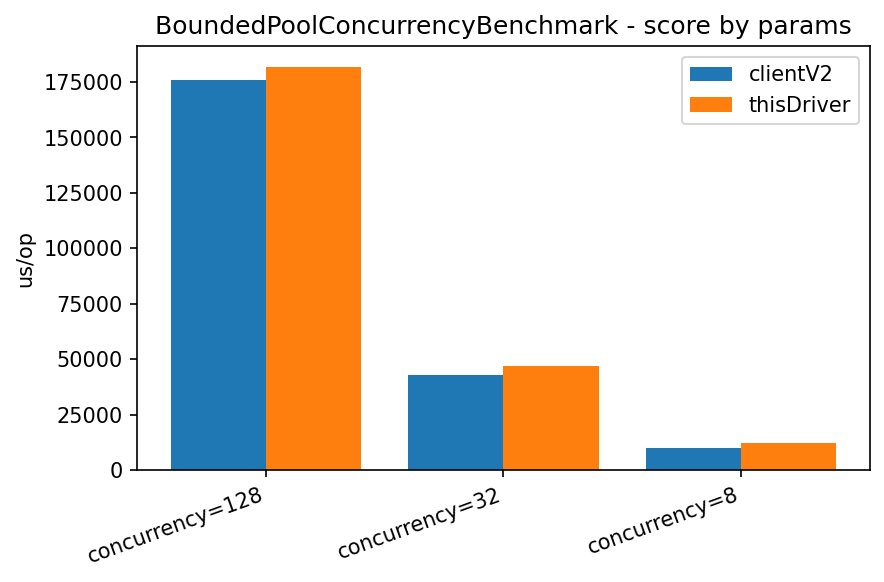
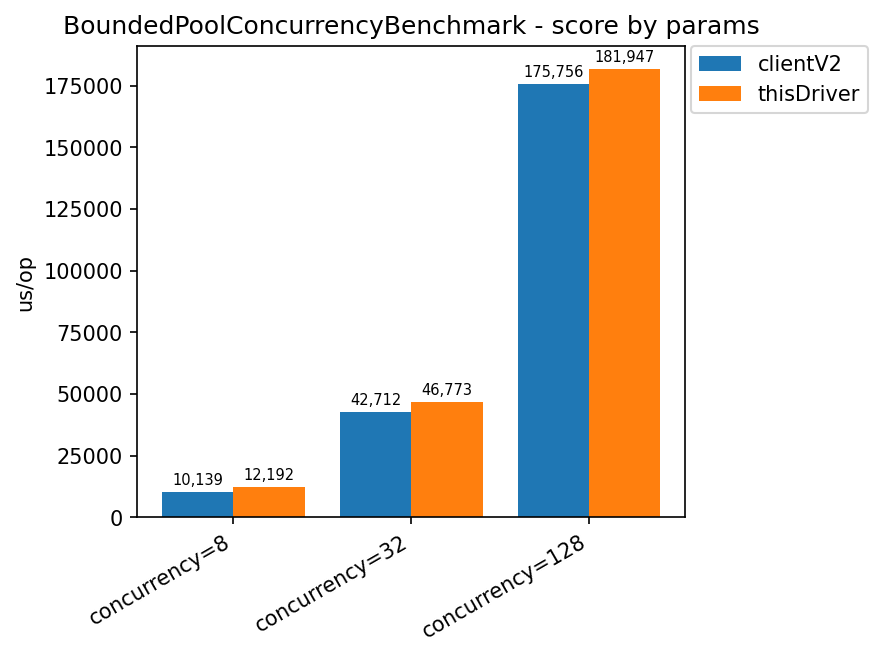
fix(benchmarks): mega-sweep chart quality issues + rewrite performance index
Reconnaissance on the live docs site (task from user review) surfaced five concrete chart
problems in the 22 PNGs aggregate-all.py generated for the 2026-08-24 mega sweep, plus a stale
"local laptop" framing on docs/performance/index.md that predated the sweep.

scripts/benchmarks/aggregate-all.py:
- New params_sort_key(): sorts @Param labels by the numeric value of each key=value component
  instead of the label string - fixes PoolSizeSweepThroughputBenchmark/BoundedPoolConcurrencyBenchmark
  showing poolSize 16/32/4/8 and concurrency 128/32/8 in the wrong (lexical) order.
- plot_class_chart/plot_class_allocation_chart refactored onto a shared _render_grouped_bar_chart:
  - numeric sort applied to the x-axis (via params_sort_key)
  - legend moved fully outside the axes (was overlapping the tallest bars, e.g. DecoderWorkerCountThroughputBenchmark)
  - y-axis switches to log scale when values span >20x (StreamingScanBenchmark's 10k/100k/1M
    tiers were unreadable on a linear axis)
  - figure width now accounts for label string length, not just count (DefaultPoolSlowQueryThroughputBenchmark's
    two-@Param labels were clipping the title/labels at the canvas edge)
  - missing (method, params) combinations now plot as NaN instead of 0, so they render as a true
    gap instead of a misleading zero-height bar (DecoderWorkerCountThroughputBenchmark's
    widenedDecoder only has a concurrency=8 data point)
  - each bar now gets its value printed above it
[…]

diff --git a/scripts/benchmarks/aggregate-all.py b/scripts/benchmarks/aggregate-all.py
@@ -60,6 +60,8 @@ from __future__ import annotations
 import argparse
 import csv
 import json
+import math
+import re
 import sys
 from datetime import datetime, timezone
 from pathlib import Path
@@ -103,6 +105,22 @@ def params_label(params: dict) -> str:
     if not params:
         return "(no params)"
     return ", ".join(f"{k}={v}" for k, v in sorted(params.items()))
+
+
+def params_sort_key(label: str) -> tuple:
+    """Sorts @Param labels by the numeric value of each 'key=value' component instead of the
+    label string itself - plain string sort put poolSize 16/32/4/8 and concurrency 128/32/8 in
+    the wrong order (e.g. "128" < "32" < "8" lexically), which read as a rendering bug rather
+    than a sort bug. Each value is tried as a float first (tag 0, sorts before any string), and
+    falls back to the raw string (tag 1) for genuinely non-numeric @Param values - a mixed label
+    still sorts consistently, just alphabetically on its non-numeric components."""
+    key = []
+    for value in re.findall(r"=([^,]+)", label):
+        try:
+            key.append((0, float(value)))
+        except ValueError:
+            key.append((1, value))
+    return key or [(1, label)]
 
 
 def alloc_bytes_per_op(entry: dict) -> float | None:
@@ -200,7 +218,7 @@ def build_class_section(cls: str, artifact: dict) -> tuple[str, list[dict], dict
     all_methods_in_class = max((set(methods) for methods in by_params.values()), key=len, default=set())
 
     csv_rows = []
-    for label in sorted(by_params):
+    for label in sorted(by_params, key=params_sort_key):
         methods = by_params[label]
         for method_key in sorted(methods):
             row = methods[method_key]
@@ -252,71 +270,124 @@ def build_class_section(cls: str, artifact: dict) -> tuple[str, list[dict], dict
     return "\n".join(lines), csv_rows, by_params
 
 
-def plot_class_chart(cls: str, by_params: dict[str, dict[str, dict]], out_path: Path) -> bool:
-    """One grouped bar chart per benchmark class: score by @Param combination, one bar per
-    method. Returns False (and writes nothing) if there's only one bar total - not worth a chart.
-    Deliberately generic across @BenchmarkMode/units (unlike analyze.py's plots, which are
-    written for one specific class's shape) - the y-axis label is just whatever scoreUnit that
-    class's entries actually used, and every class gets its own chart rather than one fixed set
-    of three metrics."""
-    labels = sorted(by_params)
+def _render_grouped_bar_chart(
+    cls: str,
+    by_params: dict[str, dict[str, dict]],
+    out_path: Path,
+    *,
+    value_key: str,
+    ylabel: str,
+    title_suffix: str,
+) -> bool:
+    """Shared renderer behind plot_class_chart/plot_class_allocation_chart - same grouped-bar
+    shape, parameterized only by which field of each row to plot (primary score vs. B/op) and the
+    y-axis label. Returns False (writes nothing) if there's only one bar total - not worth a
+    chart. Fixes applied here after reviewing the first real mega-sweep render (2026-08-24):
+
+    - @Param combinations sorted numerically (params_sort_key), not as label strings - a plain
+      string sort put poolSize 16/32/4/8 and concurrency 128/32/8 in the wrong order, which read
+      as a rendering bug rather than a sort bug.
+    - Missing (method, params) combinations are plotted as NaN, not 0 - matplotlib simply omits a
+      NaN bar instead of drawing a misleading zero-height one sitting on the axis.
+    - The legend is placed fully outside the axes (upper-left anchored just past the right edge)
+      instead of matplotlib's auto-placed "best" corner, which routinely overlapped the tallest
+      bars when they reached close to the top of the plot.
+    - The y-axis switches to log scale when the plotted values span more than ~20x (e.g.
+      StreamingScanBenchmark's 10k/100k/1M row tiers) - on a linear scale the smallest bars were
+      visually flat against zero and impossible to compare.
+    - Figure width now also accounts for the actual rendered length of the @Param labels (not
+      just how many there are) - multi-@Param classes like DefaultPoolSlowQueryThroughputBenchmark
+      produce long combined labels ("concurrency=32, sleepSeconds=1.0") that got clipped off the
+      right edge of the canvas at the old fixed per-bar width.
+    - That same per-label-length width scales with the number of @Param combinations too, which
+      runs away for classes with *many* long labels (FluxInputStreamBridgeMicrobenchmark's 8
+      two-@Param combinations produced a ~44-inch-wide, visually squashed chart with the legend
+      stranded far off the right edge). Past a width cap, this switches to vertical (90°) labels
+      instead: vertical text needs horizontal room proportional to the bars themselves, not the
+      label string length, so width no longer explodes - the extra label height is absorbed by
+      growing the figure's *height* instead.
+    - Each bar gets its value printed above it (`Bar.bar_label`), so the chart is readable on its
+      own without cross-referencing the table below it.
+    """
+    labels = sorted(by_params, key=params_sort_key)
     methods = sorted({m for group in by_params.values() for m in group})
     if len(labels) * len(methods) <= 1:
         return False
 
-    unit = next(
-        (row["unit"] for group in by_params.values() for row in group.values()),
-        "score",
-    )
+    all_values = [
+        row[value_key]
+        for group in by_params.values()
+        for row in group.values()
+        if row.get(value_key) is not None
+    ]
+    if not all_values:
+        return False
 
-    fig, ax = plt.subplots(figsize=(max(6, len(labels) * 1.6), 4))
+    longest_label_chars = max(len(label) for label in labels)
+    diagonal_width = max(6.0, len(labels) * max(1.6, longest_label_chars * 0.11))
+    max_diagonal_width = 20.0
+    if diagonal_width > max_diagonal_width:
+        fig_width = max(6.0, len(labels) * max(1.0, len(methods) * 0.6))
+        fig_height = 4.5 + longest_label_chars * 0.05
+        label_rotation, label_ha = 90, "center"
+    else:
+        fig_width = diagonal_width
+        fig_height = 4.5
+        label_rotation, label_ha = 30, "right"
+    fig, ax = plt.subplots(figsize=(fig_width, fig_height))
+
     width = 0.8 / max(len(methods), 1)
     x = range(len(labels))
     for i, method in enumerate(methods):
         offset = (i - (len(methods) - 1) / 2) * width
-        values = [by_params[label].get(method, {}).get("score") for label in labels]
-        plotted = [v if v is not None else 0 for v in values]
-        ax.bar([xi + offset for xi in x], plotted, width=width, label=method)
+        values = [by_params[label].get(method, {}).get(value_key) for label in labels]
+        plotted = [v if v is not None else math.nan for v in values]
+        bars = ax.bar([xi + offset for xi in x], plotted, width=width, label=method)
+        ax.bar_label(bars, fmt=lambda v: f"{v:,.0f}" if v == v else "", fontsize=7, padding=2)
+
+    positive_values = [v for v in all_values if v > 0]
+    if positive_values and max(positive_values) / min(positive_values) > 20:
+        ax.set_yscale("log")
+        ylabel = f"{ylabel} (log scale)"
+
     ax.set_xticks(list(x))
-    ax.set_xticklabels(labels, rotation=20, ha="right")
-    ax.set_ylabel(unit)
-    ax.set_title(f"{cls} - score by params")
-    ax.legend()
+    ax.set_xticklabels(labels, rotation=label_rotation, ha=label_ha)
+    ax.set_ylabel(ylabel)
+    ax.set_title(f"{cls} - {title_suffix}")
+    ax.legend(loc="upper left", bbox_to_anchor=(1.01, 1.0), borderaxespad=0)
     fig.tight_layout()
     fig.savefig(out_path, dpi=150, bbox_inches="tight")
     plt.close(fig)
     return True
+
+
+def plot_class_chart(cls: str, by_params: dict[str, dict[str, dict]], out_path: Path) -> bool:
+    """One grouped bar chart per benchmark class: score by @Param combination, one bar per
+    method. Deliberately generic across @BenchmarkMode/units (unlike analyze.py's plots, which
+    are written for one specific class's shape) - the y-axis label is just whatever scoreUnit
+    that class's entries actually used, and every class gets its own chart rather than one fixed
+    set of three metrics. See _render_grouped_bar_chart for the actual rendering."""
+    unit = next(
+        (row["unit"] for group in by_params.values() for row in group.values()),
+        "score",
+    )
+    return _render_grouped_bar_chart(
+        cls, by_params, out_path, value_key="score", ylabel=unit, title_suffix="score by params"
+    )
 
 
 def plot_class_allocation_chart(cls: str, by_params: dict[str, dict[str, dict]], out_path: Path) -> bool:
     """Same shape as plot_class_chart but for B/op (secondary gc.alloc.rate.norm metric) instead
     of the primary score - skipped entirely (no file written) if the class has no -prof gc data
     at all (fast profile runs, or classes that were never run with -prof gc)."""
-    labels = sorted(by_params)
-    methods = sorted({m for group in by_params.values() for m in group})
-    has_alloc = any(
-        row.get("alloc_bytes_per_op") is not None for group in by_params.values() for row in group.values()
+    return _render_grouped_bar_chart(
+        cls,
+        by_params,
+        out_path,
+        value_key="alloc_bytes_per_op",
+        ylabel="B/op",
+        title_suffix="allocation by params",
     )
-    if not has_alloc or len(labels) * len(methods) <= 1:
-        return False
-
-    fig, ax = plt.subplots(figsize=(max(6, len(labels) * 1.6), 4))
-    width = 0.8 / max(len(methods), 1)
-    x = range(len(labels))
-    for i, method in enumerate(methods):
-        offset = (i - (len(methods) - 1) / 2) * width
-        values = [by_params[label].get(method, {}).get("alloc_bytes_per_op") for label in labels]
-        plotted = [v if v is not None else 0 for v in values]
-        ax.bar([xi + offset for xi in x], plotted, width=width, label=method)
-    ax.set_xticks(list(x))
-    ax.set_xticklabels(labels, rotation=20, ha="right")
-    ax.set_ylabel("B/op")
-    ax.set_title(f"{cls} - allocation by params")
-    ax.legend()
-    fig.tight_layout()
-    fig.savefig(out_path, dpi=150, bbox_inches="tight")
-    plt.close(fig)
-    return True
 
 
 def build_report(

diff --git a/docs/performance/index.md b/docs/performance/index.md
@@ -24,43 +24,51 @@ split from) if that archaeology is ever needed. To reproduce these numbers yours
 
 ## Environment
 
+The primary, trustworthy signal is now the **cloud CI pipeline** (Phase 10), not the local laptop —
+every headline number below comes from there. The local M3 Pro remains useful for quick sanity
+checks during development, but treat any single-fork local number as a first signal only, not
+something to cite.
+
 | | |
 | --- | --- |
-| CPU | Apple M3 Pro, 12 cores (6 performance + 6 efficiency) |
-| RAM | 36 GB LPDDR5 |
-| OS | macOS, Apple Silicon |
-| JDK | Temurin 21.0.8+9-LTS |
-| ClickHouse | `clickhouse/clickhouse-server`, run via `scripts/start-benchmark-clickhouse.sh` as an external container (`BENCH_CLICKHOUSE_URL`), not the per-fork Testcontainers path — see that script for the exact image/config |
+| **Primary: cloud CI runner** | GitHub Actions `ubuntu-latest` (4 cores, 16 GB RAM), `trusted` profile — 3 forks, 5 warmup iterations, `-prof gc`, one shared ClickHouse container per job. This is what produced the 2026-08-24 mega sweep and every other multi-fork-confirmed number on this page. |
+| JDK | Temurin 21 (as pinned in `.github/workflows/benchmark.yml`) |
+| ClickHouse | `clickhouse/clickhouse-server`, one container per CI job |
 | client-v2 (baseline) | `com.clickhouse:client-v2:0.9.8` (pinned in `gradle/libs.versions.toml`) |
-| JMH | `SampleTime` mode for latency benchmarks, `Throughput` mode for `PublicApiMatchedPoolThroughputBenchmark` |
-| This run | **Mixed.** `StreamingScanBenchmark` has been re-run at 3 forks / 3×10s warmup (`-Pjmh.forks=3 -Pjmh.warmupIterations=3`) on the local M3 Pro — see [results.md](results.md#full-table-scan-found-partially-fixed-and-the-fixs-own-measurement-is-unstable-at-1m). `PublicApiMatchedPoolThroughputBenchmark`'s matched-pool result was instead re-run twice on the Phase 10 cloud pipeline (`trusted` profile, GitHub Actions `ubuntu-latest`, 3 forks / 5 warmup iterations each) — see [results.md's cloud-verified section](results.md#cloud-verified-matched-pool-real-async-on-both-sides-2026-08-23) for why (a benchmark-harness fairness bug meant the local number for this scenario couldn't be trusted either, cloud or local). Every other benchmark family remains single-fork local (the `jmh` task's own default), a sanity-check signal, not yet multi-fork confirmed. [results.md](results.md) marks each table accordingly. |
+| JMH | `SampleTime` mode for latency benchmarks, `Throughput` mode for throughput-oriented classes (`PublicApiMatchedPoolThroughputBenchmark`, `PoolSizeSweepThroughputBenchmark`, `DecoderWorkerCountThroughputBenchmark`) |
+| Secondary: local dev machine | Apple M3 Pro, 12 cores (6P+6E), 36 GB LPDDR5, macOS, Temurin 21.0.8+9-LTS. Used for early exploratory runs before a scenario graduates to the cloud pipeline; single machine, single point in time, no CPU pinning — read any local-only number as *this driver vs. client-v2, same hardware/JVM/data*, not a portable claim. |
 
-Single machine, single point in time, shared consumer laptop (no CPU pinning, no isolated cores).
-Read every comparison as *this driver vs. client-v2, same hardware/JVM/data*, not as a portable
-absolute performance claim.
+## Headline results (2026-08-24 cloud mega sweep)
 
-## Headline results (updated 2026-08-23)
+The 12 core benchmark classes run together in one cloud sweep, 3 forks each — see
+[results.md's full mega sweep section](results.md#full-mega-sweep--every-scenario-one-run-2026-08-24)
+for the complete table and every chart.
 
 | Scenario | Result |
 | --- | --- |
-| Non-blocking, matched 8-connection pool, real throughput (cloud-verified, 2 independent runs) | 🟡 **client-v2 ~5–9% ahead**, consistently — see the retraction note in [results.md](results.md#non-blocking-matched-pool-numbers-below-are-retracted-pending-re-run) for why the earlier "~4x" claim here is wrong |
-| Non-blocking, matched pool, per-query latency (p50–p99) | 🔴 **client-v2 ~5–18% lower**, consistently — unresolved, see [Open follow-ups](results.md#open-follow-ups) |
-| Non-blocking, matched pool, allocation per query | 🟢 **this driver allocates 2.7–2.9x less**, and the gap widens as concurrency rises — the one part of the original story that holds up |
-| Full table scan, 10k rows | 🟢 **~12% lower latency**, consistent across repeated 3-fork runs |
-| Full table scan, 100k rows | 🟢 **roughly 4–11% lower latency**, a real but noisier win |
-| Full table scan, 1M rows | 🟡 **unresolved — anywhere from tied to ~30% higher latency**, depending on the run |
-| Transport alone (bytes, no decode) | 🟢 43–45% lower latency at every tier, including 1M rows |
-| Decode alone, no network | 🟢 7–14% lower latency at every tier |
-| Single-row point lookup / `SELECT 1` floor | 🟡 essentially tied (within ±2%) |
-| Blocking `.block()`-per-query calling style, matched pool | 🔴 ~5–8% higher latency — don't call it this way, see below |
+| Full table scan, all tiers (10k/100k/1M rows) | 🟢 **11–12% lower latency at every tier**, including 1M rows — the first cloud run to resolve the earlier local instability at that tier |
+| Non-blocking, matched 8-connection pool, real throughput (4 independent runs/classes agree) | 🔴 **client-v2 ~3–20% ahead**, consistently — unresolved, see [Open follow-ups](results.md#open-follow-ups) |
+| Non-blocking, matched pool, allocation per query | 🟢 **this driver allocates 2.7–2.9x less**, and the gap widens as concurrency rises — the clearest, most consistent win in the whole sweep |
+| Pool size sweep (4/8/16/32) | 🟡 tied at pool=4, but the gap **widens** as the pool gets bigger (client-v2 up to ~7% ahead at pool=32) — new finding, same latency-gap family |
+| Aggregation (`GROUP BY`/`avg`/`quantile`, 10k–1M rows) | 🟡 roughly a wash — +13% slower at 10k, within 2% at 100k/1M |
+| Default pool, slow query (server-side `sleep()`) | 🟢 **~2x faster at concurrency=32**, tied at concurrency=8 — this driver's larger default pool pays off once it's actually saturated |
+| Protocol floor (`SELECT 1`, point lookup) | 🟡 essentially tied to ~8% slower — no meaningful edge either way |
+| Blocking `.block()`-per-query calling style, matched pool | 🔴 same latency gap as above — don't call it this way, see below |
+| Decoder worker count widened past pool size | 🟡 no help — slightly *worse* than the coupled default |
 
 > [!IMPORTANT]
-> The three "matched pool" rows above replace an earlier "~4x more queries/sec, 3.5–4.1x lower
-> latency" headline that turned out to be measured against a client-v2 benchmark-harness bug
-> (client-v2 running near-serially, not against its real 8-connection pool) — see
-> [results.md's retraction](results.md#non-blocking-matched-pool-numbers-below-are-retracted-pending-re-run)
-> for the full story. Left here rather than quietly deleted, since the point of this pipeline is
-> honest numbers, including the ones that turn out to have been wrong.
+> **What this sweep changed the story to, in one paragraph:** this driver's clearest, most
+> repeatable advantage today is **streaming large result sets** (11–12% lower latency at every
+> tier, 10k through 1M rows) and **allocation per query under concurrent load** (2.7–2.9x less,
+> growing with concurrency) — not raw throughput or per-query latency under a matched connection
+> pool, where client-v2 is currently ahead by a consistent, still-unresolved margin that *widens*
+> as the pool or concurrency grows. Four independent benchmark classes
+> (`PublicApiMatchedPoolThroughputBenchmark`, `BoundedPoolConcurrencyBenchmark`,
+> `MatchedPoolThreadsConcurrencyBenchmark`, `PoolSizeSweepThroughputBenchmark`) now agree on that
+> gap, which makes it the single most concrete open question this project has — see
+> [Open follow-ups](results.md#open-follow-ups). An earlier "~4x more queries/sec" headline for
+> the matched-pool scenario was retracted after being traced to a client-v2 benchmark-harness bug;
+> see [archive.md](archive.md) for the full record.
 
 Full tables, charts, and the root-cause analysis behind each row: [results.md](results.md).
 
